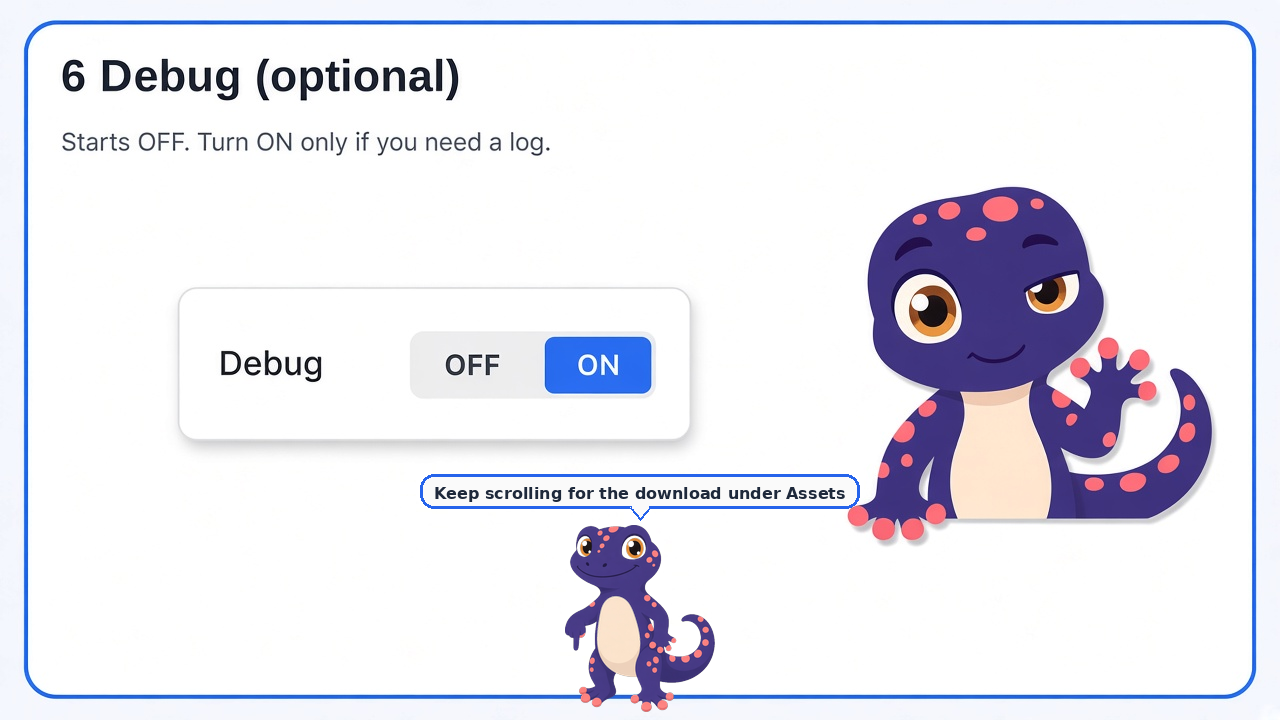
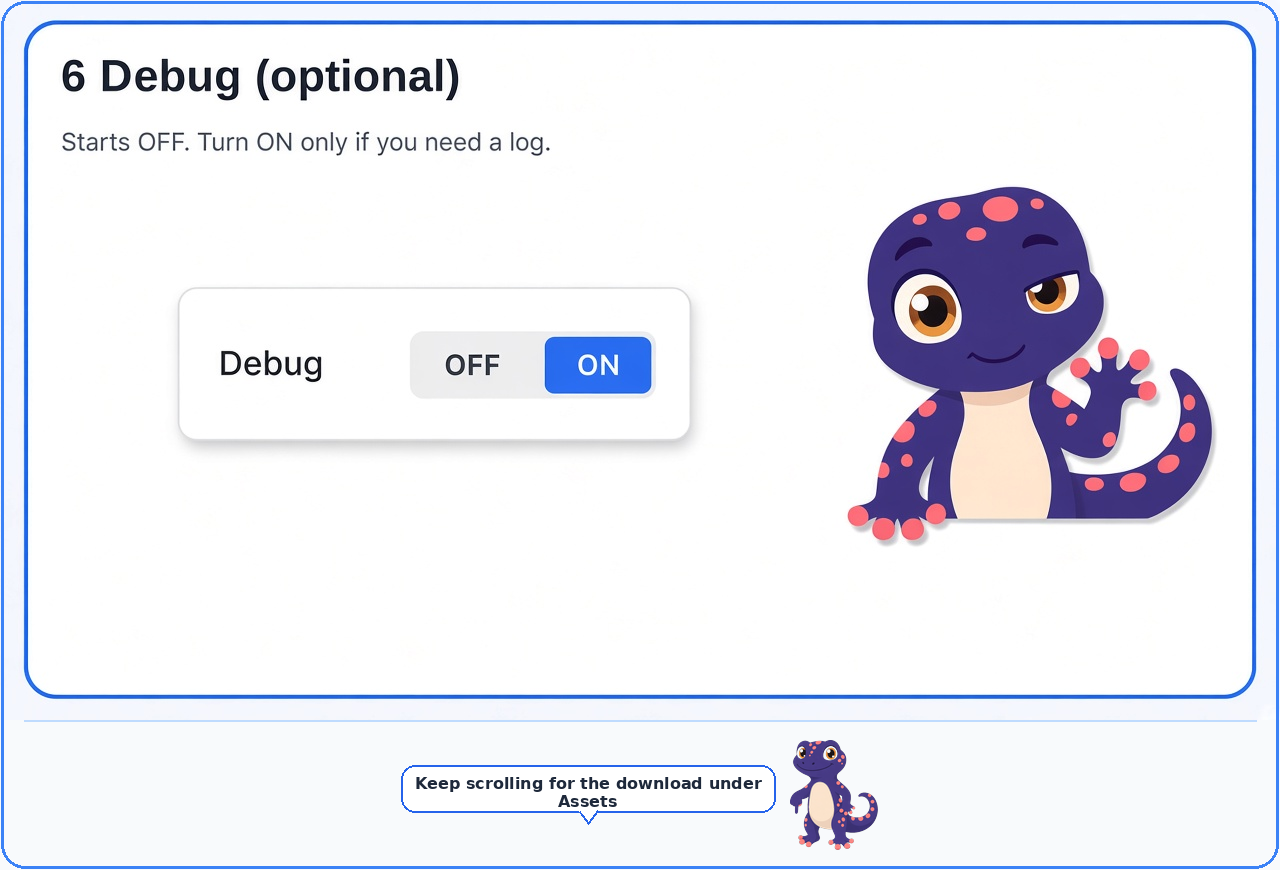
Keep the guide gecko clear of all card text and art.
Give each picture a footer strip for the bubble and small gecko so nothing overlaps, and point the README and release at docs/cards2/ so the tag page refreshes.

diff --git a/README.md b/README.md
@@ -6,7 +6,7 @@
 - Works with several live tabs open.
 - Free. No account. Nothing leaves your computer.
 
-<img src="docs/cards/what-it-is.png" width="800" alt="Watch the live stream. Ads stay off your screen. The stream keeps playing, several live tabs can stay open, and nothing leaves your computer.">
+<img src="docs/cards2/what-it-is.png" width="800" alt="Watch the live stream. Ads stay off your screen. The stream keeps playing, several live tabs can stay open, and nothing leaves your computer.">
 
 A free Chrome extension for Twitch live streams and YouTube. It runs only in your browser and does not send data anywhere.
 
@@ -20,16 +20,16 @@ A free Chrome extension for Twitch live streams and YouTube. It runs only in you
 
 It only runs inside Chrome on Twitch and YouTube.
 
-<img src="docs/cards/safe/02-only-sites.png" width="800" alt="Only Twitch and YouTube. Does not run other webpages or programs on your PC.">
+<img src="docs/cards2/safe/02-only-sites.png" width="800" alt="Only Twitch and YouTube. Does not run other webpages or programs on your PC.">
 
-<img src="docs/cards/safe/03-no-data.png" width="800" alt="No data collection. No account. Nothing is collected or sent off your computer.">
+<img src="docs/cards2/safe/03-no-data.png" width="800" alt="No data collection. No account. Nothing is collected or sent off your computer.">
 
 - **Only Twitch and YouTube** — does not open or run other webpages, and does not install programs on your PC.
 - **No data collection** — no account, nothing collected, nothing sent off your computer.
 
 ## Current build
 
-<img src="docs/cards/whats-new.png" width="800" alt="Current stable build v0.2.3. Gecko toolbar icon. Twitch live swaps to a clean stream during ads. YouTube clears player ads and home Sponsored cards.">
+<img src="docs/cards2/whats-new.png" width="800" alt="Current stable build v0.2.3. Gecko toolbar icon. Twitch live swaps to a clean stream during ads. YouTube clears player ads and home Sponsored cards.">
 
 The toolbar icon is a gecko head. Twitch and YouTube work as described above.
 
@@ -43,13 +43,13 @@ You do **not** need a GitHub account. You are only downloading a zip and loading
 
 ### 1. Open the release page
 
-<img src="docs/cards/install/01-open-github.png" width="800" alt="Step 1: Open the GitHub release page.">
+<img src="docs/cards2/install/01-open-github.png" width="800" alt="Step 1: Open the GitHub release page.">
 
 Or skip ahead and use the download button in step 2.
 
 ### 2. Download the zip
 
-<img src="docs/cards/install/02-download-zip.png" width="800" alt="Step 2: Download the zip. A second gecko points down toward the download link below.">
+<img src="docs/cards2/install/02-download-zip.png" width="800" alt="Step 2: Download the zip. A second gecko points down toward the download link below.">
 
 ↓ The download is right under this picture:
 
@@ -59,7 +59,7 @@ On the release page, the file is also listed under **Assets**.
 
 ### 3. Unzip the folder
 
-<img src="docs/cards/install/03-unzip.png" width="800" alt="Step 3: Unzip the download and keep the folder.">
+<img src="docs/cards2/install/03-unzip.png" width="800" alt="Step 3: Unzip the download and keep the folder.">
 
 - Windows: right-click the zip → **Extract All…**
 - Mac: double-click the zip
@@ -68,14 +68,14 @@ Keep the folder that appears. Do not delete it after install — Chrome reads th
 
 ### 4. Open Chrome Extensions
 
-<img src="docs/cards/install/04-extensions.png" width="800" alt="Step 4: Open chrome://extensions and turn on Developer mode.">
+<img src="docs/cards2/install/04-extensions.png" width="800" alt="Step 4: Open chrome://extensions and turn on Developer mode.">
 
 1. Open a new tab and go to `chrome://extensions`
 2. Turn on **Developer mode** (top right)
 
 ### 5. Load unpacked
 
-<img src="docs/cards/install/05-load-unpacked.png" width="800" alt="Step 5: Click Load unpacked and pick the folder with manifest.json.">
+<img src="docs/cards2/install/05-load-unpacked.png" width="800" alt="Step 5: Click Load unpacked and pick the folder with manifest.json.">
 
 1. Click **Load unpacked**
 2. Choose the unzipped folder (the one that contains `manifest.json`)
@@ -85,7 +85,7 @@ Turn off other Twitch or YouTube ad blockers while this is loaded. Two ad blocke
 
 ### 6. Debug (optional)
 
-<img src="docs/cards/install/06-debug.png" width="800" alt="Step 6: Debug starts off. Turn it on only if you need a log.">
+<img src="docs/cards2/install/06-debug.png" width="800" alt="Step 6: Debug starts off. Turn it on only if you need a log.">
 
 Debug starts **OFF**. Leave it off for normal watching.
 
